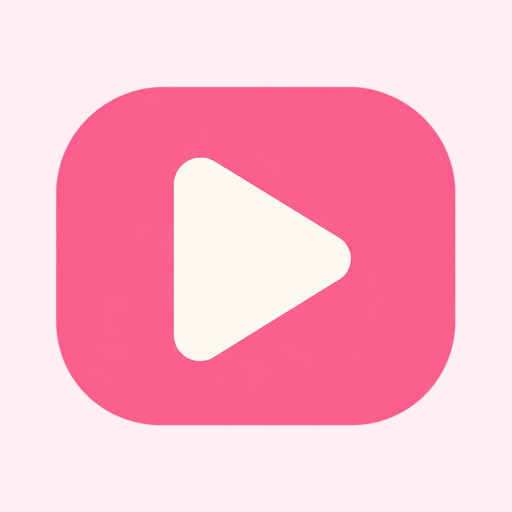
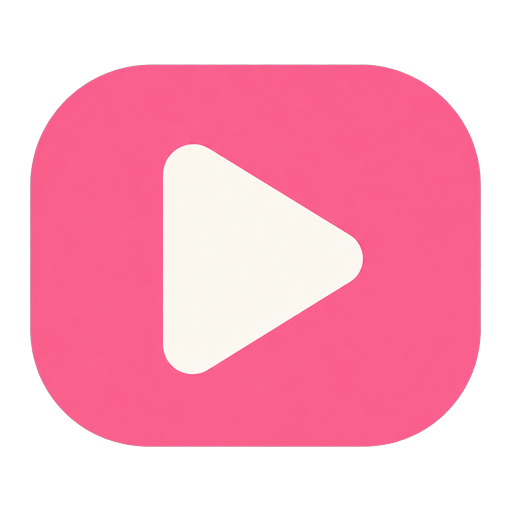
README 精简重写;应用内图标改为透明底
- README 去掉冗余的宣传句,常见问题改用四级标题让问答分行显示,整体从 126 行压到 99 行
- assets/icon.png 改为透明底,GitHub 深色主题下不再显示为浅粉色方块
- 传统启动图标(API 24-25 用)拆出 assets/icon_legacy.png 单独保留底色,
  它只供 flutter_launcher_icons 生成图标,不打进 APK

Changed region(s): [[0.0312, 0.125, 0.9375, 0.875], [0.3125, 0.2812, 0.5312, 0.75], [0.5, 0.375, 0.7188, 0.6562]]

diff --git a/README.md b/README.md
@@ -7,120 +7,93 @@
 **哔哩哔哩缓存视频和弹幕提取工具**
 
 [![Release](https://img.shields.io/github/v/release/zhiting9420/bili_merger?color=FB7299)](https://github.com/zhiting9420/bili_merger/releases)
-[![Flutter](https://img.shields.io/badge/Flutter-3.x-02569B?logo=flutter)](https://flutter.dev/)
-[![Platform](https://img.shields.io/badge/Platform-Android%20arm64-3DDC84?logo=android)](https://www.android.com/)
+[![Platform](https://img.shields.io/badge/Android-arm64-3DDC84?logo=android)](https://www.android.com/)
+[![Size](https://img.shields.io/badge/APK-15.7%20MB-blue)](https://github.com/zhiting9420/bili_merger/releases)
 [![License](https://img.shields.io/badge/License-GPLv3-blue.svg)](LICENSE)
 
-把 B 站客户端缓存的分离音视频流(`.m4s`)还原成完整 MP4,
-并且能**把弹幕直接烧进画面** —— 一个文件走天下,发给谁都带弹幕。
-
-全程本地离线完成,不联网、不上传、无广告。安装包 15.7 MB。
+把 B 站客户端缓存的 `.m4s` 还原成完整 MP4,并能**把弹幕烧进画面**。
+本地离线运行,无广告。
 
 </div>
 
 ## 两种导出方式
 
-勾选视频后点导出,会让你二选一:
-
 |  | 快速合并 | 弹幕烧录 |
 |---|---|---|
-| 原理 | `-c copy` 流复制,不重编码 | 弹幕渲染进画面像素,重新编码 |
-| 耗时 | 秒级(受磁盘 IO 限制) | 约实时的 1/9 ~ 1/2(优先用手机硬件编码器) |
-| 画质 | 完全无损 | 重编码,肉眼几乎无差别 |
-| 弹幕 | 另存同名 `.ass`,要播放器支持外挂字幕 | 烧进画面,**任何播放器、任何平台都能看到** |
-| 适合 | 自己收藏、要保原画质 | 转发分享、上传到别的平台 |
+| 原理 | `-c copy` 流复制 | 弹幕渲染进画面,重新编码 |
+| 耗时 | 秒级 | 视频时长的 1/9 ~ 1/2 |
+| 画质 | 无损 | 重编码,肉眼几乎无差 |
+| 弹幕 | 另存 `.ass`,需播放器支持外挂字幕 | 烧进画面,**任何播放器都能看** |
+| 适合 | 自己收藏 | 转发分享、传到别的平台 |
 
-外挂 `.ass` 在手机上限制很多:系统相册、微信、抖音都不认,发给别人弹幕就丢了,
-MX Player 之类实时渲染弹幕还容易掉帧。烧录就是为了解决这些。
+外挂 `.ass` 在手机上处处受限:系统相册、微信、抖音都不认,发给别人弹幕就丢。烧录解决的就是这个。
 
-## ✨ 功能特性
+## ✨ 特性
 
-- 🔥 **弹幕烧录** —— 弹幕烧进画面输出单个 MP4。优先调用手机硬件编码器(实测约 9~11 倍实时速度),
-  失败自动回退软件编码。逐帧离线渲染,再多弹幕也不会卡。
-- ⭐ **精选 / 全部两档筛选** —— 精选只留彩色、顶部/底部、以及 B 站权重最高档(≈"高赞")的弹幕,
-  并全部静止显示,画面清爽;全部则还原 B 站观感。支持同款弹幕去重。
-- 🧯 **零重叠布局** —— 滚动弹幕统一速度不会追尾,顶部/底部各自分配轨道,
-  显示区域排不下时**宁可舍弃也绝不叠字**。
-- 🔍 **智能扫描** —— 自动识别缓存目录,读取标题、分集、时长,列表直接显示缩略图。
-- 📁 **多 P / 合集** —— 按「标题 + 分集名」命名并自动去重,不会互相覆盖。
-- ☑ **逐项勾选 / 随时中断** —— 默认全选,可单独取消;导出中点按钮即停,半成品文件自动删除。
-- 🔔 **后台不中断** —— 烧录走前台服务并在通知栏显示进度,切到别的 App 也不会被系统冻结。
-- 🎨 **个性化** —— 弹幕字号 / 速度 / 透明度 / 显示区域可调,应用主题四种配色。
-- 🔄 **检查更新** —— 内置 GitHub Releases 版本检查。
+- 🔥 **弹幕烧录** —— 优先用手机硬件编码器(实测 9~11 倍实时速度),失败自动回退软件编码
+- ⭐ **精选 / 全部两档筛选** —— 精选只留彩色、顶部/底部与 B 站权重最高档的弹幕,并静止显示
+- 🧯 **零重叠布局** —— 滚动弹幕统一速度不追尾,排不下的宁可舍弃也不叠字
+- 🔍 **智能扫描** —— 自动读取标题、分集、时长,列表显示缩略图
+- 📁 **多 P / 合集** —— 按「标题 + 分集名」命名去重,不会互相覆盖
+- ☑ **勾选 / 中断** —— 逐项勾选,导出中随时可停,半成品自动删除
+- 🔔 **后台不中断** —— 前台服务 + 通知栏进度,切走也不会被系统冻结
+- 🔄 **检查更新** —— 内置 GitHub Releases 版本检查
 
 ## 📲 安装
 
-前往 [Releases](https://github.com/zhiting9420/bili_merger/releases) 下载最新 APK。
+[**下载最新版**](https://github.com/zhiting9420/bili_merger/releases/latest) · 仅支持 arm64 设备
 
-仅支持 **arm64 设备**(2015 年后的手机基本都是),不再提供 32 位包。
+## 📋 使用
 
-## 📋 使用方法
-
-1. 打开 App,授予「所有文件访问」权限。
-2. 用 MT 管理器等工具把 `Android/data/com.bilibili.app.in/download`
-   整个复制到 `Download` 之类的普通目录 —— 安卓 11 起 `Android/data` 不允许第三方应用直接读取。
-3. 点 **输入目录** 选刚才复制出来的文件夹,点 **输出目录** 选保存位置。
-4. 勾选要处理的视频(默认全选),点 **合并选中 N 个**,选择快速合并或弹幕烧录。
+1. 打开 App,授予「所有文件访问」权限
+2. 用 MT 管理器把 `Android/data/com.bilibili.app.in/download` 复制到 `Download` 等普通目录
+   *(安卓 11 起 `Android/data` 不允许第三方应用直接读取)*
+3. 选好 **输入目录** 和 **输出目录**
+4. 勾选视频 → 点 **合并选中 N 个** → 选快速合并或弹幕烧录
 
 ## ❓ 常见问题
 
-**弹幕怎么比 B 站少了很多?**
-这是刻意的。为了保证弹幕互不遮挡,显示区域内排不下的弹幕会被舍弃而不是硬叠上去。
-嫌少就去设置里把「显示区域」调大、「弹幕速度」调快,或者把筛选切到「全部弹幕」。
-合并日志里会写明这一条视频保留了多少、舍弃了多少。
+#### 弹幕怎么比 B 站少很多?
 
-**精选模式为什么弹幕不飘了?**
-精选模式下弹幕一律静止显示。B 站的弹幕 93% 都是滚动的,飘起来必然遮挡画面;
-静止显示既不挡画面,渲染开销也低得多。想要飘的就切「全部弹幕」。
+为了保证互不遮挡,显示区域内排不下的弹幕会被舍弃,而不是硬叠上去。
 
-**烧录要多久?**
-取决于机型和视频时长。硬件编码可用时约 9~11 倍实时速度(20 分钟的视频约 2 分钟),
-回退到软件编码约 2~4 倍。会明显发热耗电,建议插着电。
+嫌少就调大「显示区域」、调快「弹幕速度」,或切到「全部弹幕」。合并日志会写明保留和舍弃了多少条。
 
-**支持鸿蒙 / iOS / 电脑端缓存吗?**
-不支持,本项目只做 Android 客户端缓存。跨平台需求可以看
-[hlbmerge_flutter](https://github.com/molihuan/hlbmerge_flutter)。
+#### 精选模式的弹幕为什么不飘?
+
+精选模式一律静止显示。B 站 93% 的弹幕是滚动的,飘起来必然遮挡画面;静止既不挡画面,渲染开销也低得多。要飘的就切「全部弹幕」。
+
+#### 烧录要多久?
+
+硬件编码可用时约 9~11 倍实时速度,20 分钟的视频约 2 分钟;回退到软件编码约 2~4 倍。会发热耗电,建议插着电。
+
+#### 支持鸿蒙 / iOS / 电脑端缓存吗?
+
+不支持,本项目只做 Android 客户端缓存。跨平台需求可以看 [hlbmerge_flutter](https://github.com/molihuan/hlbmerge_flutter)。
 
 ## 🔨 从源码构建
 
-需要 [Flutter SDK](https://docs.flutter.dev/get-started/install) 与 Android 开发环境。
-
 ```bash
 flutter pub get
-flutter build apk --release   # 产物为单一 arm64-v8a APK
+flutter build apk --release   # 单一 arm64-v8a APK
 ```
 
-FFmpeg 是本项目**自行交叉编译**的精简二进制(9.3 MB,原来用通用构建要 45 MB),
-以 `libffmpeg.so` 的名字放在 `android/app/src/main/jniLibs/`,运行时由原生层当子进程调起。
-要重新编译它:
+FFmpeg 是本项目**自行交叉编译**的精简二进制(9.3 MB,通用构建要 45 MB),
+以 `libffmpeg.so` 的名字放在 `android/app/src/main/jniLibs/`,运行时由原生层当子进程调起
+(**不是** `ffmpeg_kit_flutter`)。重新编译:
 
 ```bash
 export ANDROID_NDK_HOME=/path/to/ndk
 bash tools/ffmpeg/build-ffmpeg-slim.sh
 ```
 
-脚本会自动拉取 FFmpeg / x264 / libass / dav1d 等全部源码并打上本地补丁,
-其中包含一个让 `h264_mediacodec` 向编码器查询真实输入缓冲区 stride 的修正 ——
-不打这个补丁,部分机型的硬件编码画面会错切并出现绿边。
-
-## 🛠 技术栈
-
-- **框架**:Flutter / Dart,状态管理 Provider
-- **音视频**:自编译 FFmpeg 8.1.2(**不是** `ffmpeg_kit_flutter`),经 MethodChannel + `ProcessBuilder` 以子进程方式调用
-- **弹幕**:自研 XML → ASS 转换器,含轨道分配与防重叠布局
-- **字体**:内置 Noto Sans CJK SC 子集,因为编译的 FFmpeg 不带 fontconfig,libass 找不到系统字体
-
-## 🔒 隐私
-
-完全本地运行,不收集、不上传任何信息,无广告、无第三方追踪。
-唯一的联网行为是「关于 → 检查更新」访问 GitHub Releases API。
+脚本会拉取 FFmpeg / x264 / libass / dav1d 等全部源码并打上本地补丁,其中包含一个让
+`h264_mediacodec` 向编码器查询真实输入缓冲区 stride 的修正 —— 不打这个补丁,
+部分机型硬件编码的画面会错切并出现绿边。
 
 ## 📄 开源协议
 
-[GNU GPLv3](LICENSE)。
+[GNU GPLv3](LICENSE)。内置 FFmpeg 启用了 `--enable-gpl --enable-libx264`,分发物整体受 GPL 约束;
+对应构建脚本见 `tools/ffmpeg/`,第三方组件许可证见 [THIRD-PARTY.md](THIRD-PARTY.md)。
 
-之所以是 GPL 而非更宽松的协议:随应用分发的 FFmpeg 启用了 `--enable-gpl --enable-libx264`,
-分发物整体受 GPL 约束。对应的完整构建脚本与补丁已随仓库提供(`tools/ffmpeg/`),
-第三方组件及各自许可证见 [THIRD-PARTY.md](THIRD-PARTY.md)。
-
-本工具仅供备份你自己缓存的内容,请勿用于侵犯版权的用途。
+仅供备份你自己缓存的内容,请勿用于侵犯版权的用途。
